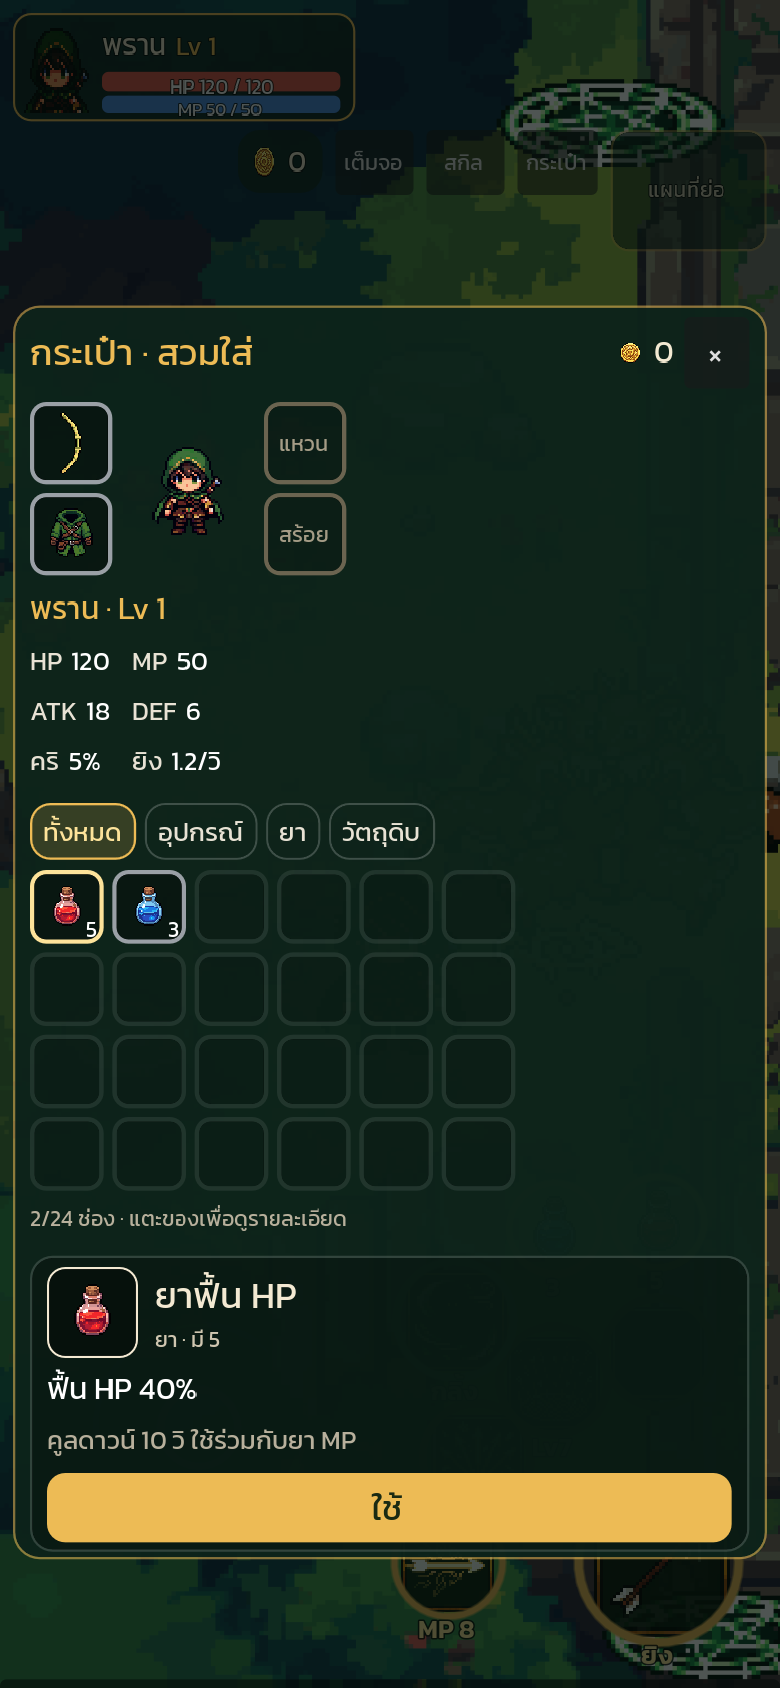
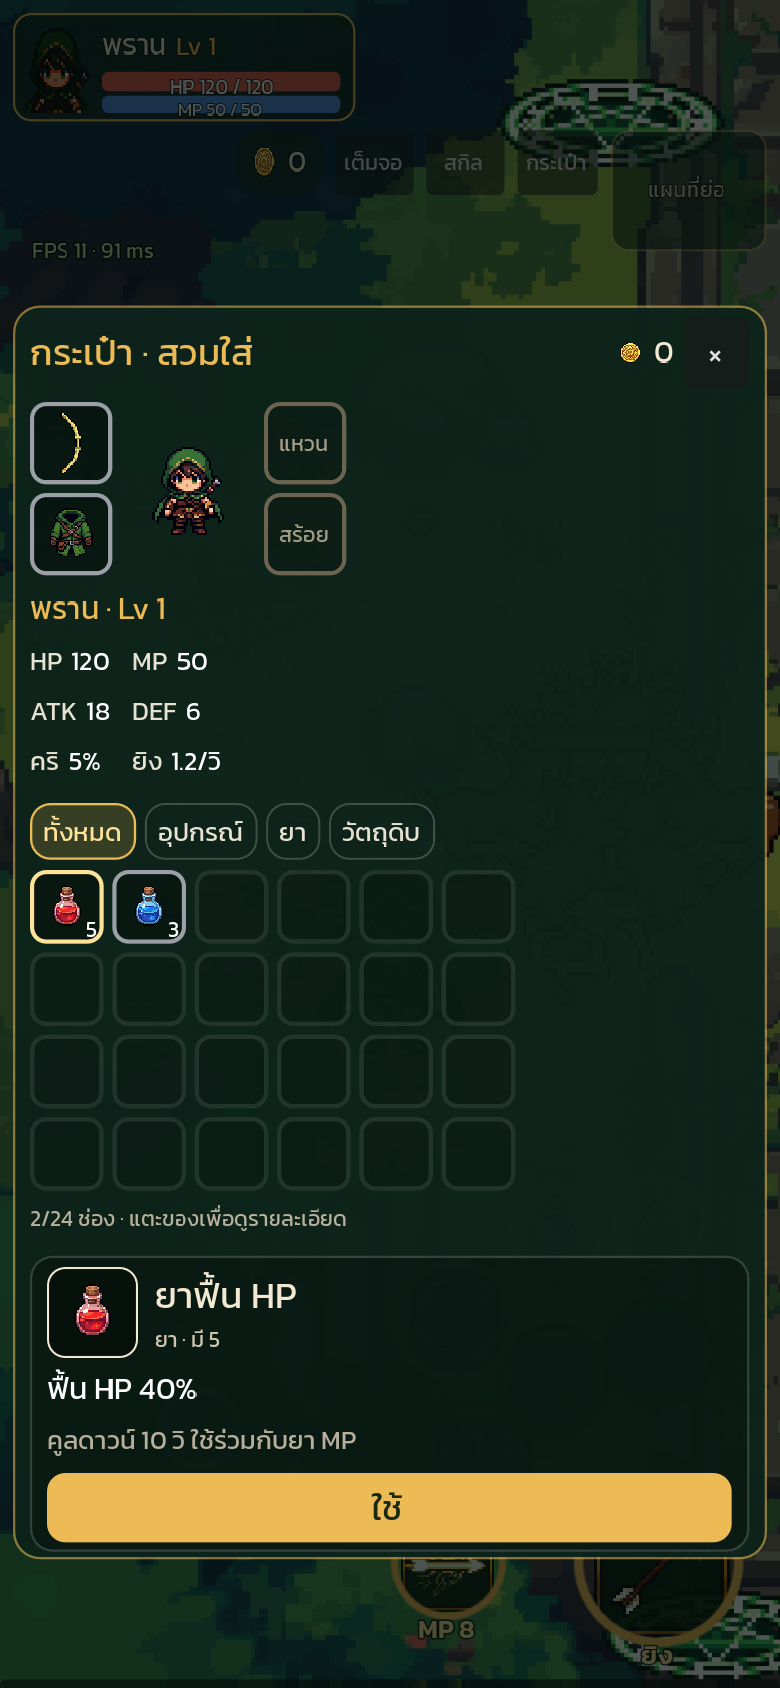
M3k: 60 fps+ - lighter code, physics interpolation, 2x canvas on phones, effect saver
- Cache balance lookups, monster cfg, skill numbers in the HUD; redraw buttons and set the
  flash shader only on change (server CPU per frame 1.4-1.8 ms -> 0.55-0.9 ms)
- Physics interpolation for the world only, reset on warp / respawn / monster teleport,
  so 120 Hz screens draw in-between positions; HUD and damage text stay off
- Web preset caps devicePixelRatio at 2 on phones (iPhone is 3x)
- PerfSaver: under 57 fps for 3 s hides pond ripples, roll dust and pickup puffs and
  shows "ประหยัด" in the FPS meter; back after 10 s at 59+
- No game numbers changed. Spec: docs/superpowers/specs/2026-11-07-m3k-fps.md
- Tests: 259/259, touch_check PASS

Claude-Session: https://claude.ai/code/session_01Y3xh1UrjSLruRTRK75Y2Tg

diff --git a/docs/superpowers/specs/2026-11-07-m3k-fps.md b/docs/superpowers/specs/2026-11-07-m3k-fps.md
@@ -1,0 +1,40 @@
+# M3k — 60 fps ขึ้นไป (เจ้าของ 2026-11-07)
+
+คำสั่ง: "อยากให้เป็น 60 fps+" / "ทำให้มากกว่า 60fps"
+ที่อนุญาต: ปรับโค้ดให้เบา ไม่เปลี่ยนเกม · ลดความละเอียด UI บนมือถือ · ปิดเอฟเฟกต์เมื่อ fps ร่วงต่ำกว่า 60
+เครื่อง: iPhone 15/16/17 ขึ้นไป (ยังไม่ได้วัดบนเครื่องจริง)
+
+## สิ่งที่ทำ (ไม่มีตัวเลขเกมเปลี่ยน)
+
+1. **โค้ดเบาลง** — cache ค่า balance/monster cfg, เปลี่ยน shader แฟลชเฉพาะตอนค่าเปลี่ยน,
+   ปุ่มสัมผัสวาดใหม่เฉพาะตอนคูลดาวน์เปลี่ยน, HUD คำนวณตัวเลขสกิลทุก 0.25 วินาทีหรือตอนอัปเลเวล/เปลี่ยนของ
+   - CPU ต่อเฟรมบนเซิร์ฟเวอร์: ประมาณ 1.4–1.8 ms เหลือ 0.55–0.9 ms
+2. **Physics interpolation** — เกมคิดฟิสิกส์ 60 ครั้ง/วินาทีเหมือนเดิม แต่จอ 120 Hz วาดตำแหน่งที่อยู่ระหว่างกลาง
+   ทำให้ภาพลื่นจริงมากกว่า 60 เฟรม
+   - เปิดเฉพาะโลก (ตัวละคร มอน ลูกธนู) ส่วน HUD เมนู และตัวเลขดาเมจไม่ใช้
+   - ตอนวาร์ป เกิดใหม่ และมอนกลับบ้าน จะรีเซ็ตเพื่อไม่ให้ตัวไถลข้ามแผนที่
+3. **Canvas บนมือถือไม่เกิน 2 เท่า** — iPhone ปกติวาดที่ 3 เท่า การจำกัดไว้ 2 เท่าทำให้วาดพิกเซลน้อยลงประมาณ 56%
+   - โลกเกมยังวาดที่ความละเอียดพิกเซลจริงเหมือน M3j จึงชัดเท่าเดิม
+   - ตัวอักษร UI อาจนุ่มลงเล็กน้อย
+4. **โหมดประหยัด** (`scripts/rules/perf_saver.gd`)
+   - เปิดเมื่อ fps ต่ำกว่า 57 ติดกัน 3 วินาที
+   - ปิดเมื่อ fps ถึง 59 ขึ้นไปติดกัน 10 วินาที
+   - เมื่อเปิด จะซ่อนระลอกน้ำในบ่อ ไม่แสดงฝุ่นตอนกลิ้งและแสงตอนเก็บของ และมิเตอร์แสดงคำว่า "ประหยัด"
+   - เอฟเฟกต์ที่ยังแสดงตามปกติ: ประกายตอนโดนตี อัปเลเวล และสกิล
+
+## เกิน 60 fps บน Safari
+
+- ต้องใช้ iPhone จอ 120 Hz คือรุ่น Pro หรือ iPhone 17
+- Safari ล็อกไว้ที่ 60 ถ้าไม่ปิดค่านี้: ตั้งค่า → แอป → Safari → ขั้นสูง → Feature Flags → ปิด
+  "Prefer Page Rendering Updates near 60fps"
+- โหมดประหยัดพลังงานของ iPhone จำกัดไว้ที่ 30 fps เสมอ
+
+## ทดสอบ
+
+- `tests/test_perf.gd` ครอบคลุม:
+  - จังหวะเปิด/ปิดโหมดประหยัด
+  - เอฟเฟกต์ที่ถูกข้ามและที่ยังแสดง
+  - ระลอกน้ำเมื่อเปลี่ยนห้อง
+  - interpolation เฉพาะโลก
+  - การจำกัด canvas 2 เท่าใน Web preset
+- วัด fps บนเครื่องจริงไม่ได้จากเซิร์ฟเวอร์ ต้องให้เจ้าของอ่านตัวเลขจากมิเตอร์ FPS ในเกม
